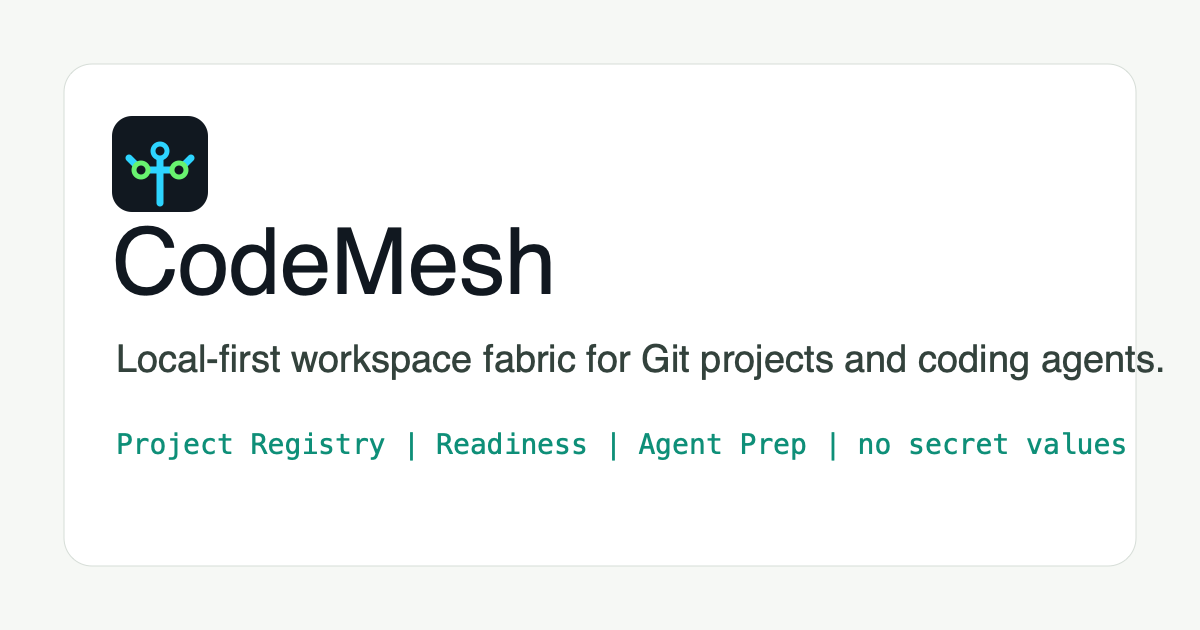
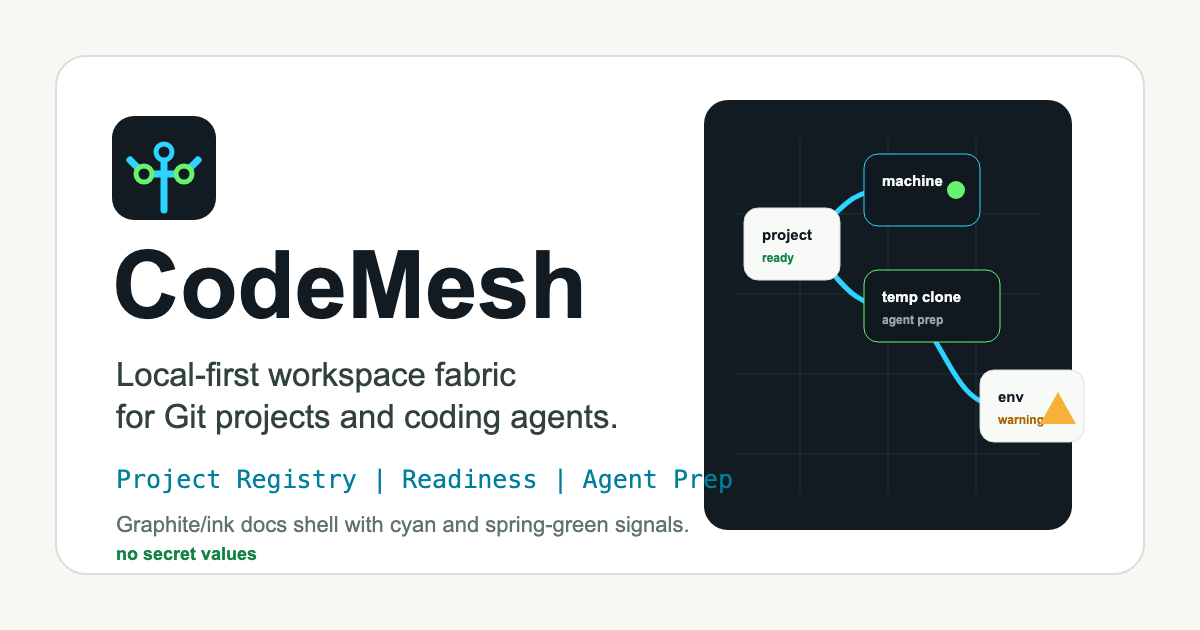
feat: apply CodeMesh docs-site theme

diff --git a/docs/assets/README.md b/docs/assets/README.md
@@ -1,3 +1,9 @@
+---
+summary: "Committed docs-site visual identity assets and screenshot proof."
+read_when:
+  - "Changing docs-site visual assets, social cards, favicons, or screenshot proof."
+---
+
 # Docs Site Assets
 
 `codemesh-hero.svg`, `social-card.svg`, and `social-card.png` are copied into the local docs-site artifact.
